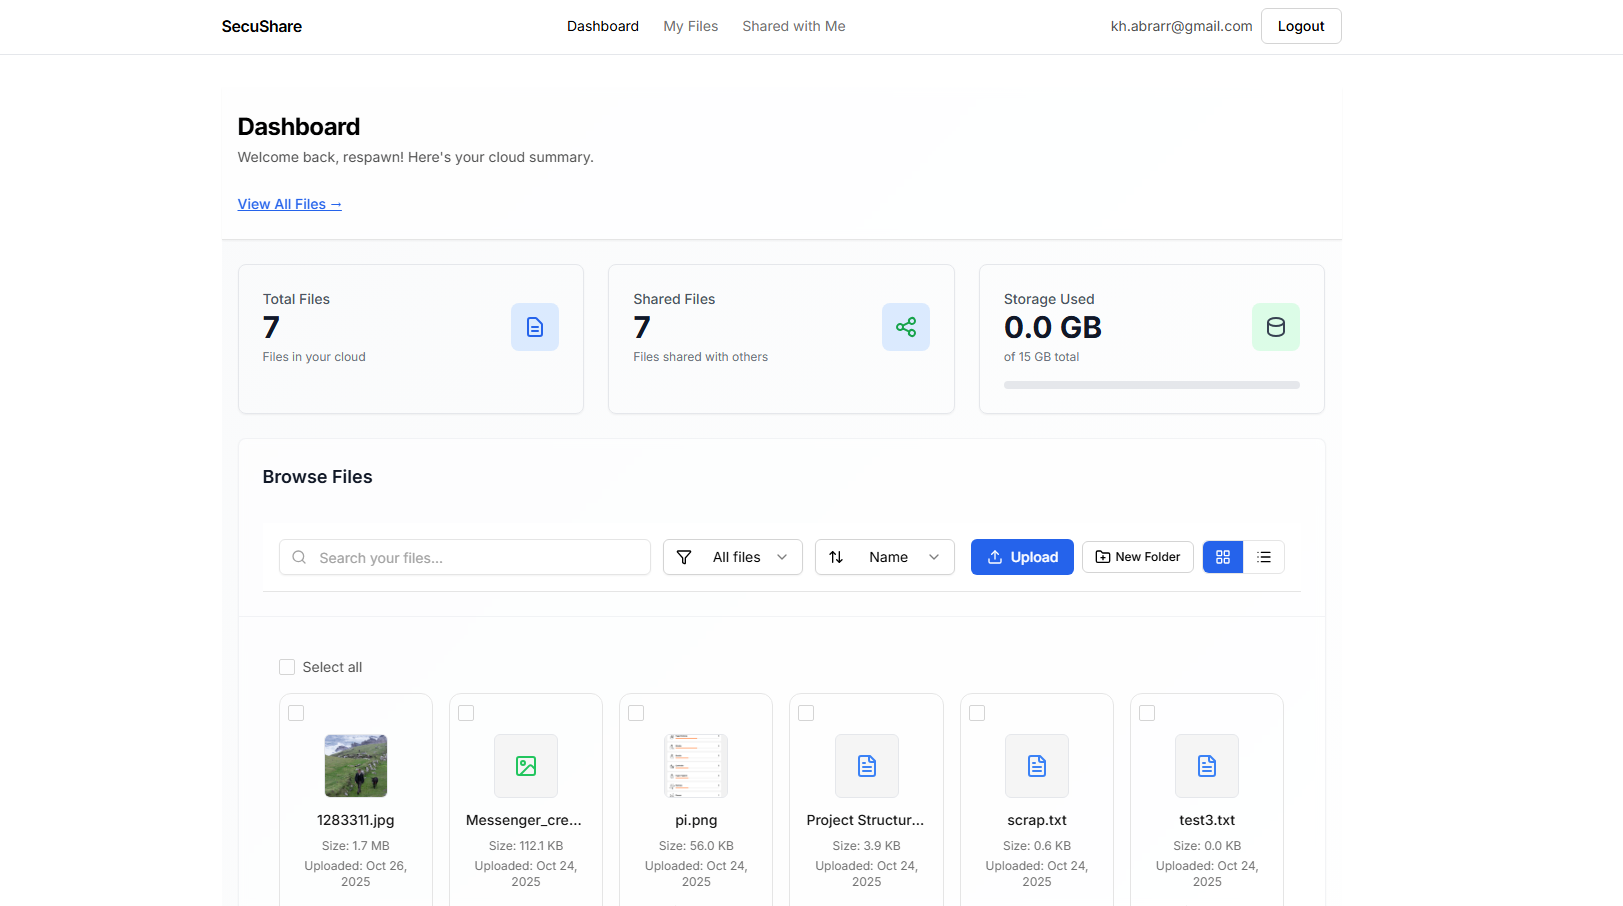
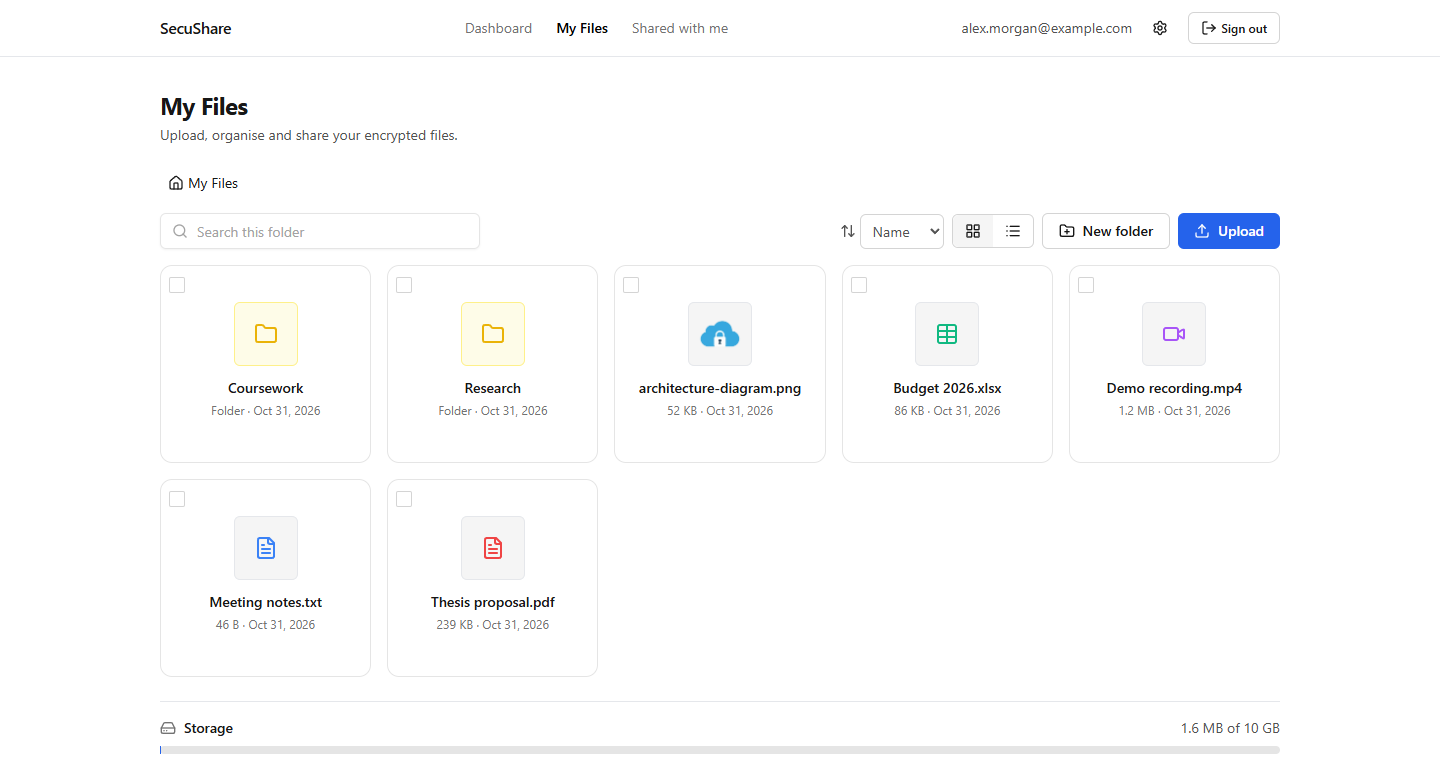
patch/update

diff --git a/backend/src/routes/files.js b/backend/src/routes/files.js
@@ -20,7 +20,7 @@ const { validate, objectId, email, base64 } = require('../lib/validate');
 const { nameSchema, pathSchema, childPath, ancestorsOf, escapeRegex } = require('../lib/paths');
 const { badRequest, conflict, notFound, HttpError } = require('../lib/errors');
 const { fileDto, linkDto, recipientDto } = require('../services/serializers');
-const { deleteItems, storageUsed, ensureFolders } = require('../services/files');
+const { deleteItems, storageUsed, ensureFolders, createFileWithinQuota, descendantsOf } = require('../services/files');
 
 const router = express.Router();
 router.use(requireAuth);
@@ -139,16 +139,18 @@ router.post('/', limits.upload, upload.single('file'), async (req, res) => {
 
     const storageKey = storage.newKey(owner);
     await storage.putFile(storageKey, tmp);
+    let file;
     try {
-      const file = await File.create({
-        owner, type: 'file', name, path: dir, storageKey, mimetype, size, encryptedSize, wrappedKey: key,
-      });
-      res.status(201).json(fileDto(file));
+      file = await createFileWithinQuota(
+        { owner, type: 'file', name, path: dir, storageKey, mimetype, size, encryptedSize, wrappedKey: key },
+        config.STORAGE_QUOTA_BYTES
+      );
     } catch (err) {
-      await storage.deleteMany([storageKey]).catch(() => {});
       if (err.code === 11000) throw conflict(`"${dir}${name}" already exists`, { reason: 'exists' });
       throw err;
     }
+    if (!file) throw new HttpError(413, 'Storage quota exceeded');
+    res.status(201).json(fileDto(file));
   } finally {
     if (tmp) await fs.promises.rm(tmp, { force: true });
   }
@@ -222,22 +224,34 @@ router.patch(
       throw conflict('An item with this name already exists there');
     }
 
+    // For a folder, descendants are moved first and moved back if the folder itself can't
+    // be saved, so a failure never leaves them under a folder that doesn't exist
+    const newFull = childPath(newPath, newName);
+    const descendantIds =
+      item.type === 'folder' ? await File.find(descendantsOf(owner, item)).distinct('_id') : [];
+    if (descendantIds.length) await rewritePathPrefix(descendantIds, oldFull, newFull);
+
     item.name = newName;
     item.path = newPath;
-    await item.save();
-
-    if (item.type === 'folder') {
-      const newFull = childPath(newPath, newName);
-      // Rewrite the prefix of every descendant's path. Byte offsets are used because the
-      // prefix is matched exactly, so its UTF-8 length is the cut point.
-      await File.updateMany(
-        { owner, path: { $regex: `^${escapeRegex(oldFull)}` } },
-        [{ $set: { path: { $concat: [newFull, { $substrBytes: ['$path', Buffer.byteLength(oldFull), -1] }] } } }]
-      );
+    try {
+      await item.save();
+    } catch (err) {
+      if (descendantIds.length) await rewritePathPrefix(descendantIds, newFull, oldFull);
+      // Another request created the same name in the meantime
+      if (err.code === 11000) throw conflict('An item with this name already exists there');
+      throw err;
     }
     res.json(fileDto(item));
   }
 );
+
+// Replaces the leading `from` of each item's path with `to`. Byte offsets are used because
+// `from` is matched exactly, so its UTF-8 length is the cut point.
+function rewritePathPrefix(ids, from, to) {
+  return File.updateMany({ _id: { $in: ids }, path: { $regex: `^${escapeRegex(from)}` } }, [
+    { $set: { path: { $concat: [to, { $substrBytes: ['$path', Buffer.byteLength(from), -1] }] } } },
+  ]);
+}
 
 // ---------- delete ----------
 

diff --git a/backend/test/files.test.js b/backend/test/files.test.js
@@ -1,6 +1,7 @@
 const { describe, it, before, after } = require('node:test');
 const assert = require('node:assert/strict');
 const h = require('./helpers');
+const File = require('../src/models/File');
 
 before(h.setup);
 after(h.teardown);
@@ -69,6 +70,23 @@ describe('upload and download', () => {
     const stats = await agent.get('/api/files/stats');
     assert.equal(stats.body.files, 2);
   });
+
+  it('keeps concurrent uploads within the quota', async () => {
+    const { agent } = await h.createUser('quota-race@example.com');
+    const twoMb = Buffer.alloc(2 * 1024 * 1024 - 1024);
+    const blobs = h.storedBlobCount();
+    const results = await Promise.all(
+      ['1', '2', '3', '4'].map((name) => h.uploadFile(agent, { name, content: twoMb }))
+    );
+
+    const created = results.filter((r) => r.status === 201).length;
+    assert.ok(results.every((r) => r.status === 201 || r.status === 413));
+    assert.ok(created <= 2, `${created} uploads accepted`);
+    const stats = await agent.get('/api/files/stats');
+    assert.ok(stats.body.used <= stats.body.quota);
+    assert.equal(stats.body.files, created);
+    assert.equal(h.storedBlobCount(), blobs + created, 'rejected uploads leave no blobs');
+  });
 });
 
 describe('ownership', () => {
@@ -109,6 +127,24 @@ describe('folders, rename and move', () => {
     const { body: g2 } = await h.uploadFile(agent, { name: 'g.txt' }).expect(201);
     await agent.patch(`/api/files/${g2._id}`).send({ path: '/dest/' }).expect(409);
     await agent.patch(`/api/files/${g2._id}`).send({ path: '/missing/' }).expect(400);
+  });
+
+  it('reports a name clash that slips past the check, and puts the contents back', async () => {
+    const { agent } = await h.createUser('mover3@example.com');
+    await h.uploadFile(agent, { name: 'inside.txt', path: '/a/' }).expect(201);
+    await agent.post('/api/files/folders').send({ name: 'b', path: '/' }).expect(201);
+    const a = (await agent.get('/api/files?path=/')).body.items.find((i) => i.name === 'a');
+
+    // Simulate another request creating "b" between the check and the save
+    const exists = File.exists;
+    File.exists = async () => null;
+    try {
+      await agent.patch(`/api/files/${a._id}`).send({ name: 'b' }).expect(409);
+    } finally {
+      File.exists = exists;
+    }
+    assert.deepEqual(names(await agent.get('/api/files?path=/a/')), ['inside.txt']);
+    assert.deepEqual(names(await agent.get('/api/files?path=/b/')), []);
   });
 
   it('refuses to move a folder into itself', async () => {

diff --git a/frontend/src/components/branding/CloudLogo.tsx b/frontend/src/components/branding/CloudLogo.tsx
@@ -1,28 +1,23 @@
-// src/components/branding/CloudLogo.tsx
 type Props = {
-    /** Brand text shown next to the icon */
-    label?: string;
-    /** Extra classes for the wrapper */
-    className?: string;
-  };
-  
-  export function CloudLogo({ label = "SECURESHARE", className = "" }: Props) {
-    return (
-      <div className={`mb-6 flex w-full items-center justify-center gap-2 ${className}`}>
-        <svg width="28" height="28" viewBox="0 0 48 48" className="drop-shadow-sm" aria-hidden="true">
-          <defs>
-            <linearGradient id="branding-g1" x1="0" x2="1" y1="0" y2="1">
-              <stop offset="0" stopColor="#6EE7F9" />
-              <stop offset="1" stopColor="#34D399" />
-            </linearGradient>
-          </defs>
-          <path
-            d="M17 34h16a9 9 0 0 0 0-18 11 11 0 0 0-21.2 3.4A7 7 0 0 0 17 34Z"
-            fill="url(#branding-g1)"
-          />
-        </svg>
-        <span className="text-xl font-semibold tracking-wide">{label}</span>
-      </div>
-    );
-  }
-  
+  /** Brand text shown next to the icon */
+  label?: string;
+  /** Extra classes for the wrapper */
+  className?: string;
+};
+
+export function CloudLogo({ label = "SecuShare", className = "" }: Props) {
+  return (
+    <div className={`mb-6 flex w-full items-center justify-center gap-2 ${className}`}>
+      <svg width="28" height="28" viewBox="0 0 48 48" className="drop-shadow-sm" aria-hidden="true">
+        <defs>
+          <linearGradient id="branding-g1" x1="0" x2="1" y1="0" y2="1">
+            <stop offset="0" stopColor="#6EE7F9" />
+            <stop offset="1" stopColor="#34D399" />
+          </linearGradient>
+        </defs>
+        <path d="M17 34h16a9 9 0 0 0 0-18 11 11 0 0 0-21.2 3.4A7 7 0 0 0 17 34Z" fill="url(#branding-g1)" />
+      </svg>
+      <span className="text-xl font-semibold tracking-wide">{label}</span>
+    </div>
+  );
+}

diff --git a/backend/src/routes/public.js b/backend/src/routes/public.js
@@ -13,7 +13,7 @@ const { validate, base64 } = require('../lib/validate');
 const { conflict, HttpError } = require('../lib/errors');
 const { fileDto } = require('../services/serializers');
 const { authorizeLink, consumeDownload } = require('../services/links');
-const { storageUsed } = require('../services/files');
+const { storageUsed, createFileWithinQuota } = require('../services/files');
 
 const router = express.Router();
 
@@ -66,24 +66,28 @@ router.post(
     await consumeDownload(link);
     const storageKey = storage.newKey(owner);
     await storage.copy(src.storageKey, storageKey);
+    let copy;
     try {
-      const copy = await File.create({
-        owner,
-        type: 'file',
-        name: src.name,
-        path: '/',
-        storageKey,
-        mimetype: src.mimetype,
-        size: src.size,
-        encryptedSize: src.encryptedSize,
-        wrappedKey,
-      });
-      res.status(201).json(fileDto(copy));
+      copy = await createFileWithinQuota(
+        {
+          owner,
+          type: 'file',
+          name: src.name,
+          path: '/',
+          storageKey,
+          mimetype: src.mimetype,
+          size: src.size,
+          encryptedSize: src.encryptedSize,
+          wrappedKey,
+        },
+        config.STORAGE_QUOTA_BYTES
+      );
     } catch (err) {
-      await storage.deleteMany([storageKey]).catch(() => {});
       if (err.code === 11000) throw conflict(`You already have a file named "${src.name}" in your root folder`);
       throw err;
     }
+    if (!copy) throw new HttpError(413, 'Storage quota exceeded');
+    res.status(201).json(fileDto(copy));
   }
 );
 

diff --git a/backend/src/routes/auth.js b/backend/src/routes/auth.js
@@ -9,7 +9,7 @@ const File = require('../models/File');
 const Share = require('../models/Share');
 const ShareLink = require('../models/ShareLink');
 const limits = require('../middlewares/rateLimits');
-const { requireAuth } = require('../middlewares/auth');
+const { loadUser, requireAuth } = require('../middlewares/auth');
 const { validate, email, base64, authHash } = require('../lib/validate');
 const { badRequest, conflict, unauthorized } = require('../lib/errors');
 const { userDto, keysDto } = require('../services/serializers');
@@ -41,6 +41,7 @@ const clearSessionCookie = (res) =>
 async function startSession(req, user) {
   await regenerate(req);
   req.session.userId = String(user._id);
+  req.session.sessionVersion = user.sessionVersion ?? 0;
 }
 
 async function issueVerification(user, log) {
@@ -114,7 +115,7 @@ router.post('/logout', async (req, res) => {
 });
 
 router.get('/me', async (req, res) => {
-  const user = req.session?.userId ? await User.findById(req.session.userId).lean() : null;
+  const user = await loadUser(req);
   res.json({ user: user ? userDto(user) : null });
 });
 
@@ -162,6 +163,8 @@ router.post(
     user.passwordHash = await bcrypt.hash(newAuthHash, BCRYPT_COST);
     user.encryptedPrivateKey = encryptedPrivateKey;
     user.privateKeyIv = privateKeyIv;
+    // Signs out every other session; this one continues under a fresh id
+    user.sessionVersion = (user.sessionVersion ?? 0) + 1;
     await user.save();
 
     await startSession(req, user);

diff --git a/backend/src/services/files.js b/backend/src/services/files.js
@@ -47,6 +47,28 @@ async function storageUsed(ownerId) {
   return row?.used ?? 0;
 }
 
+/**
+ * Inserts a file record for an already stored blob, then re-checks the quota. The check
+ * before upload alone is racy: concurrent uploads could each pass it and together exceed
+ * the quota. Re-checking after the insert sees every committed file, so at least one of
+ * them backs out. Removes the blob if the file is not kept.
+ */
+async function createFileWithinQuota(doc, quota) {
+  let file;
+  try {
+    file = await File.create(doc);
+  } catch (err) {
+    await storage.deleteMany([doc.storageKey]).catch(() => {});
+    throw err;
+  }
+  if ((await storageUsed(doc.owner)) > quota) {
+    await File.deleteOne({ _id: file._id });
+    await storage.deleteMany([doc.storageKey]).catch(() => {});
+    return null;
+  }
+  return file;
+}
+
 // Creates any missing folders along a path, e.g. "/a/b/" creates "a" and "a/b"
 async function ensureFolders(ownerId, path) {
   let parent = '/';
@@ -67,4 +89,4 @@ async function ensureFolders(ownerId, path) {
   return {};
 }
 
-module.exports = { deleteItems, storageUsed, ensureFolders, descendantsOf };
+module.exports = { deleteItems, storageUsed, ensureFolders, descendantsOf, createFileWithinQuota };

diff --git a/backend/test/auth.test.js b/backend/test/auth.test.js
@@ -128,6 +128,23 @@ describe('password change and account deletion', () => {
     assert.equal(ok.body.keys.encryptedPrivateKey, next.encryptedPrivateKey);
   });
 
+  it('signs out other sessions on password change, keeping the current one', async () => {
+    const { agent: laptop, creds } = await h.createUser('ivy@example.com');
+    const phone = request.agent(h.getApp());
+    await phone.post('/api/auth/login').send({ email: 'ivy@example.com', authHash: creds.authHash }).expect(200);
+    await phone.get('/api/files').expect(200);
+
+    const next = h.fakeCredentials();
+    await laptop
+      .post('/api/auth/change-password')
+      .send({ currentAuthHash: creds.authHash, newAuthHash: next.authHash, encryptedPrivateKey: next.encryptedPrivateKey, privateKeyIv: next.privateKeyIv })
+      .expect(200);
+
+    await laptop.get('/api/files').expect(200);
+    await phone.get('/api/files').expect(401);
+    assert.equal((await phone.get('/api/auth/me')).body.user, null);
+  });
+
   it('deletes the account with all its files and blobs', async () => {
     const { agent, creds, user } = await h.createUser('hank@example.com');
     await h.uploadFile(agent, { name: 'x.bin', path: '/docs/' }).expect(201);

diff --git a/backend/src/middlewares/auth.js b/backend/src/middlewares/auth.js
@@ -7,7 +7,8 @@ async function loadUser(req) {
   const id = req.session?.userId;
   if (!id) return null;
   const user = await User.findById(id).lean();
-  if (!user) {
+  // Account deleted, or a session from before the last password change
+  if (!user || (req.session.sessionVersion ?? 0) !== (user.sessionVersion ?? 0)) {
     req.session.userId = undefined;
     return null;
   }
@@ -32,4 +33,4 @@ function requireVerified(req, _res, next) {
   next();
 }
 
-module.exports = { requireAuth, optionalAuth, requireVerified };
+module.exports = { loadUser, requireAuth, optionalAuth, requireVerified };

diff --git a/backend/src/models/User.js b/backend/src/models/User.js
@@ -14,6 +14,10 @@ const userSchema = new mongoose.Schema(
     encryptedPrivateKey: { type: String, required: true },
     privateKeyIv: { type: String, required: true },
 
+    // Bumped on password change. Sessions holding an older value are rejected, which
+    // signs out every other device.
+    sessionVersion: { type: Number, default: 0 },
+
     emailVerified: { type: Boolean, default: false },
     emailVerificationTokenHash: { type: String, default: null, select: false },
     emailVerificationExpires: { type: Date, default: null, select: false },

diff --git a/README.md b/README.md
@@ -2,6 +2,8 @@
 
 End-to-end encrypted file storage and sharing. Files are encrypted in the browser before upload; the server only ever stores ciphertext and never sees file contents, file keys, or your password.
 
+![SecuShare: the My Files view, with folders and encrypted files](screenshot.png)
+
 - **Private storage**: folders, drag-and-drop uploads (including whole folders), rename, move, delete, per-user quota.
 - **Share with people**: share a file with another registered user; it appears in their *Shared with me*.
 - **Share links**: anyone-with-the-link or specific-people-only, optional password, expiry and download limit, revocable at any time.
@@ -86,6 +88,7 @@ Each file has its own random key. Content is encrypted in 1 MiB chunks; each chu
 
 - **There is no password recovery.** A forgotten password means the files can't be decrypted. Changing your password (while you know it) is supported and keeps all files.
 - **You trust the served code.** As with any web-based end-to-end encryption, a compromised server could serve modified JavaScript. Self-hosting removes that third party.
+- **Recipients' public keys come from the server.** When you share with a person, the browser encrypts the file key with the public key the server returns for their email. A malicious server could return its own key instead. Messengers such as Signal counter this by letting users compare key fingerprints; SecuShare does not do that yet.
 - **A share link is a capability.** Anyone with the full link can open a public link. Use a password, expiry, download limit, or a specific-people link for sensitive files, and revoke links you no longer need.
 - **Specific-people access requires a verified email.** This stops someone from registering another person's address first to receive files meant for them.
 - Unlocked keys are kept in the browser (IndexedDB, as non-extractable keys) until you sign out.
